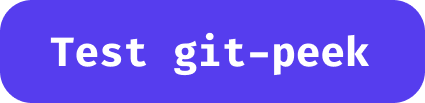
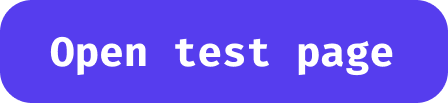
change

diff --git a/POST-INSTALL.md b/POST-INSTALL.md
@@ -14,11 +14,11 @@ Next, you'll need to register the `git-peek://` URL handler. Just run this comna
 git peek -r
 ```
 
-Then, click this button to test it:
+Then, header over to the test page:
 
-[Test button with url](git-peek://Jarred-Sumner/git-peek/blob/main/TEST-PAGE.md)
-
-If it works, your editor will now open.
+<a href="https://github.com/Jarred-Sumner/1-click-from-github-to-editor/blob/main/TEST-PAGE.md">
+  <img src="./test-button-img.png" />
+</a>
 
 If you want to configure git-peek, header over to the main [git-peek repo](https://github.com/Jarred-Sumner/git-peek).
 

diff --git a/TEST-PAGE.md b/TEST-PAGE.md
@@ -1,5 +1,3 @@
-### git-peek chrome extension test page
+### git-peek test page
 
-If you're seeing this page in your local editor, that means it worked!
-
-You just cloned the extension's repository into a temporary directory using `git-peek`. After you close your editor, the repository will be erased from your computer automatically.
+Do you see an "Open (git-peek)" button in the header? Try clicking it. If it works, this page will open up in your local editing environment.
